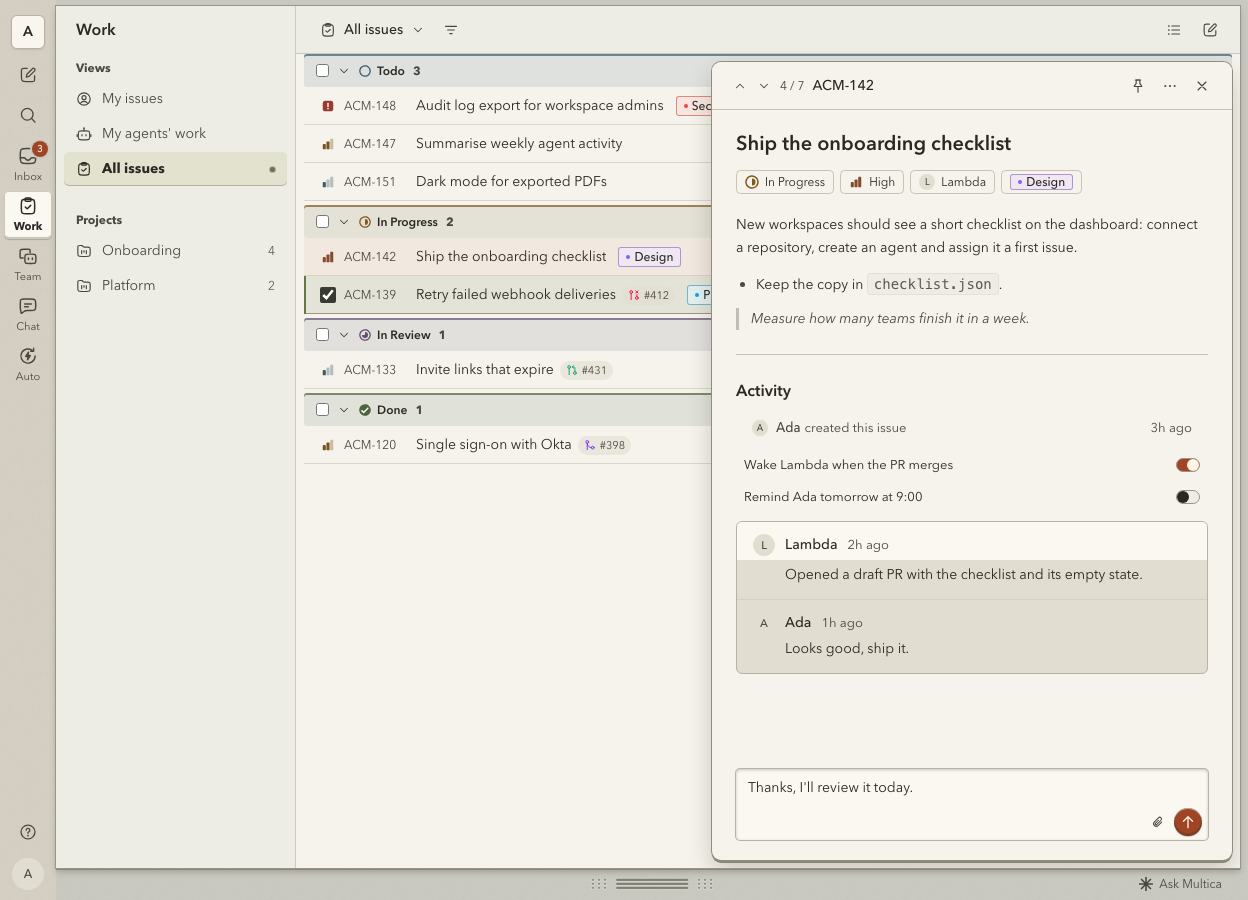
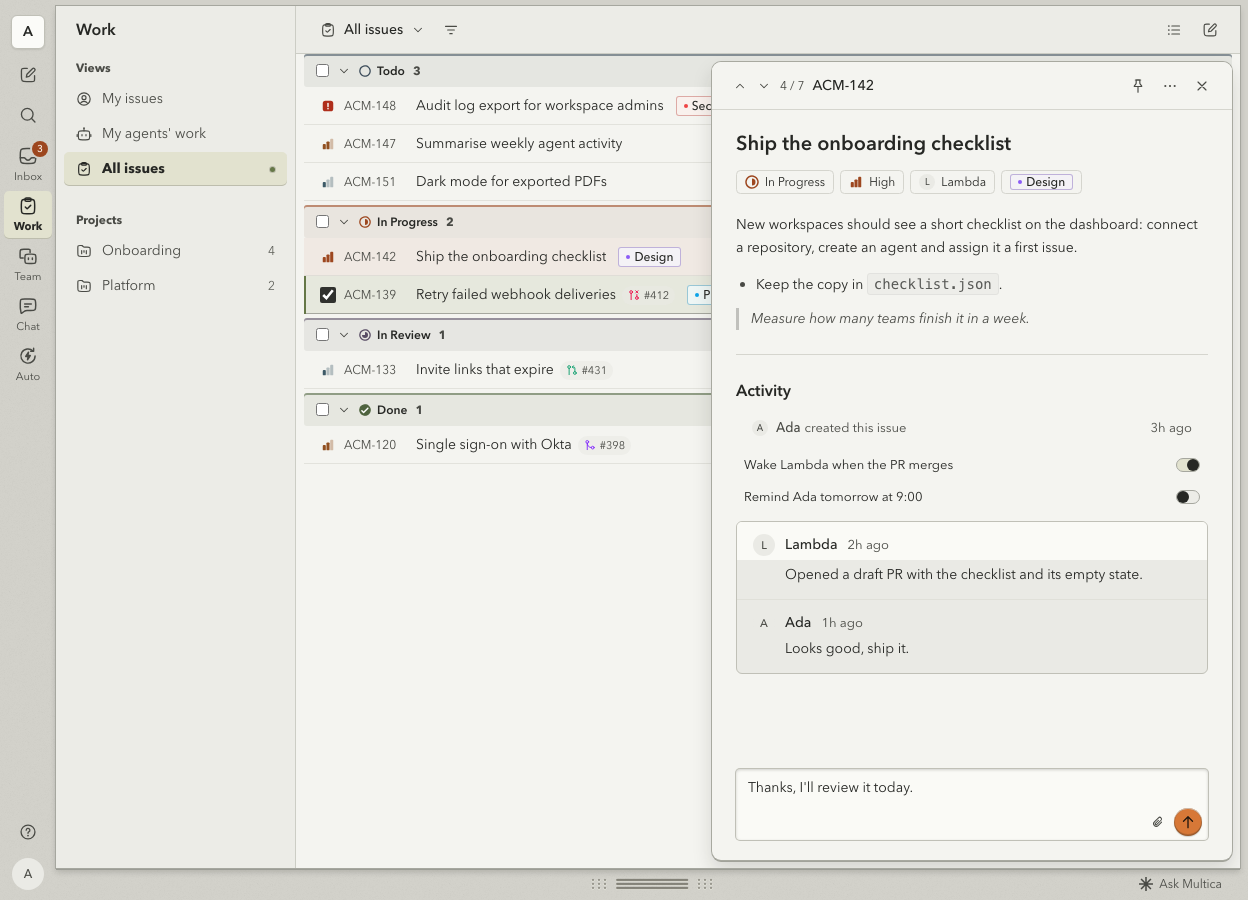
style: unify Relay navigation and neutral surfaces

diff --git a/theme.css b/theme.css
@@ -1,4 +1,4 @@
-/* Relay: a matte Braun-inspired chassis with functional workflow colours. */
+/* Relay: neutral molded panels and colour-coded controls. */
 .theme-light,
 .theme-dark {
   --font-ui: "Avenir Next", "Segoe UI", "Helvetica Neue";
@@ -30,19 +30,19 @@
   --nav-item-active-color: var(--foreground);
   --nav-item-hover-background: var(--relay-key);
   --rail-item-hover-background: var(--relay-key);
-  --rail-item-active-background: var(--relay-rail-key);
-  --rail-item-active-color: var(--foreground);
+  --rail-item-active-background: var(--nav-item-active-background);
+  --rail-item-active-color: var(--nav-item-active-color);
   --page-border-color: var(--relay-seam);
   --issue-group-header-background: var(--relay-panel);
   --issue-group-header-hover-background: var(--surface-hover);
   --board-column-background: var(--relay-panel);
   --issue-row-selected-background: var(--surface-selected);
   --issue-row-identifier-color: var(--muted-foreground);
-  --button-primary: var(--brand);
-  --button-primary-foreground: var(--brand-foreground);
+  --button-primary: var(--relay-action, var(--brand));
+  --button-primary-foreground: var(--relay-action-ink, var(--brand-foreground));
   --button-primary-border: var(--relay-seam);
-  --switch-checked-background: var(--brand);
-  --switch-checked-thumb: var(--brand-foreground);
+  --switch-checked-background: var(--relay-active-key);
+  --switch-checked-thumb: var(--foreground);
   --switch-unchecked-background: var(--relay-panel);
   --switch-unchecked-thumb: var(--foreground);
   --switch-border-color: var(--relay-seam);
@@ -55,46 +55,48 @@
 }
 
 .theme-light {
-  --app-shell: #c9c9c1;
-  --page-canvas: #f5f3eb;
-  --surface: #faf8f1;
-  --surface-raised: #f8f6ee;
-  --surface-hover: #e5e1d6;
-  --surface-selected: #e3e4d7;
-  --surface-border: #b9b2a4;
-  --surface-foreground: #292822;
-  --surface-selected-foreground: #292822;
-  --foreground: #292822;
-  --muted: #e1ded1;
-  --muted-foreground: #49473f;
-  --faint-foreground: #645f52;
-  --primary: #3a3b30;
-  --primary-foreground: #fbf8ef;
-  --accent: #e8e4d9;
-  --accent-foreground: #292822;
-  --border: #c9c3b4;
-  --input: #a49b8a;
-  --ring: #8d4037;
-  --sidebar-accent: #d7d4c0;
-  --sidebar-accent-foreground: #292822;
-  --brand: #a04426;
-  --brand-foreground: #fff6e6;
-  --tooltip: #383a30;
-  --tooltip-foreground: #f9f6ed;
+  --app-shell: #d2d1ca;
+  --page-canvas: #f4f4f0;
+  --surface: #fafaf6;
+  --surface-raised: #fbfbf8;
+  --surface-hover: #e8e8e3;
+  --surface-selected: #e6e8dd;
+  --surface-border: #c0c0b7;
+  --surface-foreground: #262724;
+  --surface-selected-foreground: #262724;
+  --foreground: #262724;
+  --muted: #eaeae5;
+  --muted-foreground: #494a45;
+  --faint-foreground: #62635d;
+  --primary: #30312e;
+  --primary-foreground: #fafaf6;
+  --accent: #e7e7e2;
+  --accent-foreground: #262724;
+  --border: #d5d5ce;
+  --input: #a6a79f;
+  --ring: #4e603d;
+  --sidebar-accent: var(--relay-active-key);
+  --sidebar-accent-foreground: #262724;
+  --brand: #9d471f;
+  --brand-foreground: #fff9f1;
+  --relay-action: #d77837;
+  --relay-action-ink: #21160e;
+  --tooltip: #30312e;
+  --tooltip-foreground: #f9f9f5;
   --success: #4c622f;
   --info: #3d5a67;
-  --warning: #78541e;
-  --destructive: #943c33;
-  --label-chip-color: #fff6e6;
-  --status-backlog: #615d52;
-  --status-todo: #365c73;
-  --status-in-progress: #80591d;
-  --status-in-review: #634e70;
+  --warning: #915020;
+  --destructive: #af2e1b;
+  --label-chip-color: #fcfaf7;
+  --status-backlog: #66685f;
+  --status-todo: #3b4b59;
+  --status-in-progress: #9d471f;
+  --status-in-review: #594d65;
   --status-done: #4e633e;
-  --status-cancelled: #736860;
-  --status-blocked: #943c33;
-  --priority-high: #864b2e;
-  --priority-urgent: #963c32;
+  --status-cancelled: #696963;
+  --status-blocked: #af2e1b;
+  --priority-high: #9d471f;
+  --priority-urgent: #af2e1b;
   --palette-gray: #635c50;
   --palette-red: #963c32;
   --palette-orange: #894f32;
@@ -105,73 +107,71 @@
   --palette-indigo: #53587a;
   --palette-purple: #674f71;
   --palette-pink: #844d60;
-  --surface-shadow: 0 1px 2px rgb(58 46 27 / 0.12);
-  --floating-shadow: 0 3px 0 #8b8679, 0 11px 24px rgb(42 39 30 / 0.22);
-  --floating-border-color: #928c7f;
-  --relay-panel: #edede6;
-  --relay-panel-rule: #cccabf;
-  --relay-palette-cursor: #ebe8dc;
-  --relay-seam: #9b9587;
-  --relay-edge: #8c8577;
-  --relay-glint: rgb(255 252 240 / 0.76);
-  --relay-dark-edge: rgb(54 47 34 / 0.26);
-  --relay-key: #e9e5d9;
-  --relay-rail-face: #d4cfc2;
-  --relay-rail-key: var(--surface);
+  --surface-shadow: 0 1px 2px rgb(28 30 24 / 0.10);
+  --floating-shadow: 0 2px 0 #a1a29a, 0 10px 20px rgb(26 27 21 / 0.15);
+  --floating-border-color: #a8a9a0;
+  --relay-panel: #ecece7;
+  --relay-panel-rule: #cccdc5;
+  --relay-palette-cursor: #e8e9e2;
+  --relay-seam: #a6a79f;
+  --relay-edge: #9b9c95;
+  --relay-glint: rgb(255 255 251 / 0.75);
+  --relay-dark-edge: rgb(32 34 29 / 0.19);
+  --relay-key: #e1e1db;
   --relay-active-key: #e2e2cf;
-  --relay-detail: #f9f6ed;
-  --relay-display: #dee0ce;
-  --relay-display-ink: #2d3528;
-  --relay-display-rule: #929a81;
-  --relay-display-well: #c7cdb9;
+  --relay-detail: #f6f6f2;
+  --relay-display: #e7e8e3;
+  --relay-display-ink: #2b2d28;
+  --relay-display-rule: #a0a39a;
+  --relay-display-well: #d6d8d0;
   --relay-status-lamp: #657747;
   --relay-grille-image: url(images/grille-light.png);
-  --relay-lane-tint: 8%;
-  --relay-lane-mark: 72%;
-  --relay-label-tint: 10%;
+  --relay-lane-tint: 4%;
+  --relay-lane-mark: 58%;
+  --relay-label-tint: 5%;
 }
 
 .theme-dark {
-  --app-shell: #242829;
-  --page-canvas: #202526;
-  --surface: #282e2d;
-  --surface-raised: #303635;
-  --surface-hover: #313838;
-  --surface-selected: #3b443b;
-  --surface-border: #505950;
-  --surface-foreground: #ece8db;
-  --surface-selected-foreground: #ece8db;
-  --foreground: #ece8db;
-  --muted: #2b3230;
-  --muted-foreground: #cac7ba;
-  --faint-foreground: #a5a89c;
-  --primary: #e8e3d2;
-  --primary-foreground: #242823;
-  --accent: #343c38;
-  --accent-foreground: #ece8db;
-  --border: #424b46;
-  --input: #59645d;
-  --ring: #ecc07d;
-  --sidebar-accent: #41493d;
-  --sidebar-accent-foreground: #ece8db;
-  --brand: #efb374;
-  --brand-foreground: #302419;
-  --tooltip: #e5ddc5;
-  --tooltip-foreground: #272820;
+  --app-shell: #242627;
+  --page-canvas: #202223;
+  --surface: #292b2c;
+  --surface-raised: #303233;
+  --surface-hover: #333536;
+  --surface-selected: #383e36;
+  --surface-border: #505352;
+  --surface-foreground: #efefe9;
+  --surface-selected-foreground: #efefe9;
+  --foreground: #efefe9;
+  --muted: #2d2f30;
+  --muted-foreground: #cbccc6;
+  --faint-foreground: #a8aaa3;
+  --primary: #e9e9e2;
+  --primary-foreground: #262829;
+  --accent: #383a3a;
+  --accent-foreground: #efefe9;
+  --border: #404342;
+  --input: #5a5d5b;
+  --ring: #c6d5a7;
+  --sidebar-accent: var(--relay-active-key);
+  --sidebar-accent-foreground: #efefe9;
+  --brand: #f0ac73;
+  --brand-foreground: #2b1d13;
+  --tooltip: #e7e8e1;
+  --tooltip-foreground: #262726;
   --success: #b0bf8f;
   --info: #98b8c2;
-  --warning: #e3bb77;
-  --destructive: #eda393;
-  --label-chip-color: #292822;
-  --status-backlog: #c0bbad;
-  --status-todo: #9cbdd2;
-  --status-in-progress: #e8bf77;
-  --status-in-review: #c9b1d1;
+  --warning: #eda96d;
+  --destructive: #f29886;
+  --label-chip-color: #252624;
+  --status-backlog: #bcbeb6;
+  --status-todo: #a1b7c9;
+  --status-in-progress: #eda96d;
+  --status-in-review: #c8b4d1;
   --status-done: #aec397;
-  --status-cancelled: #b6aaa3;
-  --status-blocked: #e89c8b;
-  --priority-high: #e5ac81;
-  --priority-urgent: #eea08e;
+  --status-cancelled: #b8b8b2;
+  --status-blocked: #f29886;
+  --priority-high: #eda96d;
+  --priority-urgent: #f29886;
   --palette-gray: #b9b6a4;
   --palette-red: #eda393;
   --palette-orange: #e6b18a;
@@ -183,32 +183,33 @@
   --palette-purple: #ccafd1;
   --palette-pink: #d7a8b7;
   --surface-shadow: 0 1px 2px rgb(0 0 0 / 0.22);
-  --floating-shadow: 0 3px 0 #141817, 0 13px 24px rgb(0 0 0 / 0.42);
-  --floating-border-color: #555e55;
-  --relay-panel: #303535;
-  --relay-panel-rule: #454d49;
-  --relay-palette-cursor: #3c4542;
-  --relay-seam: #4e5952;
-  --relay-edge: #616b61;
-  --relay-glint: rgb(225 233 210 / 0.17);
-  --relay-dark-edge: rgb(0 0 0 / 0.42);
-  --relay-key: #414844;
-  --relay-rail-key: #444947;
+  --floating-shadow: 0 2px 0 #181919, 0 11px 22px rgb(0 0 0 / 0.37);
+  --floating-border-color: #555855;
+  --relay-panel: #2c2e2f;
+  --relay-panel-rule: #434546;
+  --relay-palette-cursor: #3b3d3c;
+  --relay-seam: #4d504e;
+  --relay-edge: #606360;
+  --relay-glint: rgb(238 240 230 / 0.14);
+  --relay-dark-edge: rgb(0 0 0 / 0.35);
+  --relay-key: #3b3d3c;
   --relay-active-key: #485141;
-  --relay-detail: #252a2a;
-  --relay-display: #222f2c;
-  --relay-display-ink: #d5e1be;
-  --relay-display-rule: #62796b;
-  --relay-display-well: #1d2b23;
-  --relay-status-lamp: #d9b66f;
+  --relay-detail: #252728;
+  --relay-display: #202223;
+  --relay-display-ink: #e8e9e1;
+  --relay-display-rule: #585e59;
+  --relay-display-well: #191b1b;
+  --relay-status-lamp: #b9c997;
   --relay-grille-image: url(images/grille-dark.png);
-  --relay-lane-tint: 10%;
-  --relay-lane-mark: 64%;
-  --relay-label-tint: 13%;
+  --relay-lane-tint: 5%;
+  --relay-lane-mark: 51%;
+  --relay-label-tint: 7%;
 }
 
 :root.theme-light[data-theme-option-signal="olive"] {
   --brand: #4e5e37;
+  --relay-action: var(--brand);
+  --relay-action-ink: var(--brand-foreground);
   --ring: #4e5e37;
   --relay-active-key: #d7ddc4;
 }
@@ -220,8 +221,8 @@
   --relay-status-lamp: #bbcd97;
 }
 
-.theme-light [data-mc="app-rail"] {
-  background-color: var(--relay-rail-face);
+[data-mc="app-rail"] {
+  background-color: var(--app-shell);
 }
 
 [data-mc="app-rail"] [aria-current="page"] {
@@ -352,7 +353,7 @@
 [data-mc="label-chip"] {
   background-color: color-mix(in srgb, var(--label-color) var(--relay-label-tint), var(--surface));
   color: var(--foreground);
-  box-shadow: inset 0 0 0 1px color-mix(in srgb, var(--label-color) 45%, var(--border));
+  box-shadow: inset 0 0 0 1px color-mix(in srgb, var(--label-color) 30%, var(--border));
 }
 
 [data-mc="label-chip"]::before {
@@ -425,7 +426,7 @@
 }
 
 [data-mc="unread-dot"] {
-  background-color: var(--brand);
+  background-color: var(--destructive);
   box-shadow: 0 0 0 1px var(--relay-dark-edge);
 }
 
@@ -438,14 +439,10 @@
 }
 
 :root[data-theme-option-keycap-relief] :is([data-slot="button"]:is([data-variant="default"], [data-variant="outline"], [data-variant="brand"]), [data-slot="kbd"]) {
-  box-shadow: inset 0 0 0 1px var(--relay-dark-edge), inset 0 1px var(--relay-glint), inset 0 -3px var(--relay-dark-edge), 0 1px 1px var(--relay-dark-edge);
+  box-shadow: inset 0 0 0 1px var(--relay-dark-edge), inset 0 1px var(--relay-glint), inset 0 -2px var(--relay-dark-edge), 0 1px 1px var(--relay-dark-edge);
 }
 
-:root[data-theme-option-keycap-relief] [data-mc="app-rail"] [aria-current="page"] {
-  box-shadow: inset 0 0 0 1px var(--relay-panel-rule), inset 0 -2px var(--relay-dark-edge), 0 1px 1px var(--relay-dark-edge);
-}
-
-:root[data-theme-option-keycap-relief] :is([data-mc="nav-item"][data-active="true"], [data-mc="settings-page"] [data-slot="list-column"] a[aria-current="page"]) {
+:root[data-theme-option-keycap-relief] :is([data-mc="app-rail"] [aria-current="page"], [data-mc="nav-item"][data-active="true"], [data-mc="settings-page"] [data-slot="list-column"] a[aria-current="page"]) {
   box-shadow: inset 0 -1px var(--relay-dark-edge);
 }
 

diff --git a/README.md b/README.md
@@ -6,7 +6,7 @@ A light and dark theme for [Multica](https://multica.ai/), inspired by two-tone 
 | --- | --- |
 | ![Relay light mode](screenshots/light.png) | ![Relay dark mode](screenshots/dark.png) |
 
-Light mode pairs a linen-grey rail and ivory keycaps with muted burnt-orange controls. Dark mode pairs graphite with a smoked-green issue title and amber indicators. A matte navigation panel, a perforated grille and colour-coded workflow lanes take their cues from Braun radios and Bauhaus graphics.
+Light mode pairs a satin-grey housing with porcelain-white panels. Dark mode uses graphite and charcoal. Both menus share an olive selection, with orange for primary actions and red for alerts. A recessed readout and perforated grille take their cues from vintage radio hardware.
 
 ## Install
 
